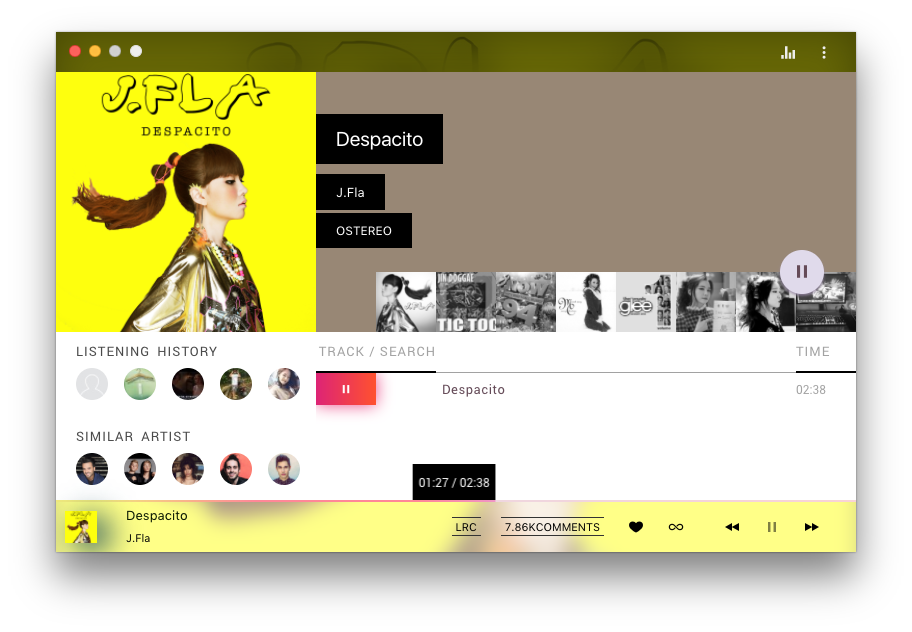
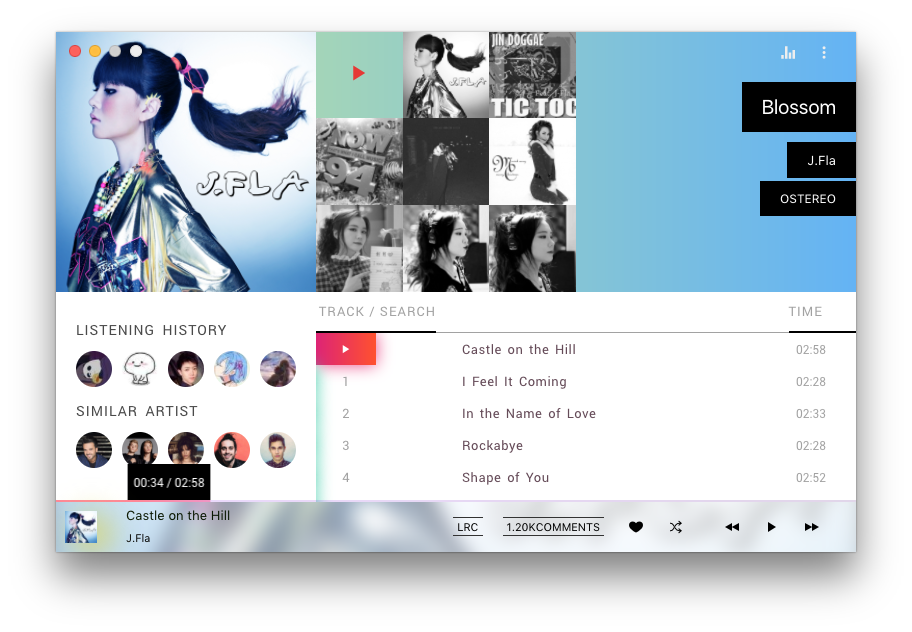
Update player ui

diff --git a/src/js/pages/Player/index.js b/src/js/pages/Player/index.js
@@ -6,8 +6,9 @@ import injectSheet from 'react-jss';
 import clazz from 'classname';
 
 import classes from './classes';
-import Search from './Search';
 import helper from 'utils/helper';
+import colors from 'utils/colors';
+import Search from './Search';
 import Loader from 'ui/Loader';
 import FadeImage from 'ui/FadeImage';
 import ProgressImage from 'ui/ProgressImage';
@@ -243,13 +244,13 @@ class Player extends Component {
 
     render() {
         var { classes, loading, meta, playing, recommend, canifav, searching, showSearch, hideSearch, filter } = this.props;
-        var heroBackgroundColor = helper.pureColor(meta.pallet);
 
         return (
             <div className={classes.container}>
                 <Loader show={loading} />
 
                 <Header
+                    transparent={true}
                     showFav={canifav()}
                 />
 
@@ -257,7 +258,7 @@ class Player extends Component {
                     <div
                         className={classes.hero}
                         style={{
-                            background: heroBackgroundColor,
+                            background: colors.randomGradient()
                         }}>
                         <ProgressImage {...{
                             height: 260,
@@ -265,43 +266,54 @@ class Player extends Component {
                             src: meta.cover,
                         }} />
 
-                        <aside className={classes.info}>
-                            <div className={classes.text}>
-                                <p className={classes.title}>
-                                    <span>
-                                        {meta.name}
-                                    </span>
-                                </p>
+                        <summary className={classes.summary}>
+                            <p className={classes.title}>
+                                <span>
+                                    {meta.name}
+                                </span>
+                            </p>
 
-                                <p className={classes.author}>
-                                    <span>
-                                        {
-                                            meta.author.map((e, index) => {
-                                                return (
-                                                    <Link
-                                                        key={index}
-                                                        to={e.link}>
-                                                        {e.name}
-                                                    </Link>
-                                                );
-                                            })
-                                        }
-                                    </span>
-                                </p>
+                            <p className={classes.author}>
+                                <span>
+                                    {
+                                        meta.author.map((e, index) => {
+                                            return (
+                                                <Link
+                                                    key={index}
+                                                    to={e.link}>
+                                                    {e.name}
+                                                </Link>
+                                            );
+                                        })
+                                    }
+                                </span>
+                            </p>
 
-                                <p
-                                    className={classes.subtitle}
-                                    style={{
-                                        marginTop: 20,
-                                    }}>
-                                    <span>
-                                        {meta.company || `${helper.humanNumber(meta.played)} Played`}
-                                    </span>
-                                </p>
+                            <p
+                                className={classes.subtitle}
+                                style={{
+                                    marginTop: 20,
+                                }}>
+                                <span>
+                                    {meta.company || `${helper.humanNumber(meta.played)} Played`}
+                                </span>
+                            </p>
+                        </summary>
 
+                        <div className={classes.recommend}>
+                            <div
+                                style={{
+                                    position: 'relative',
+                                    display: 'inline-block',
+                                    height: 260 / 3,
+                                    width: 260 / 3,
+                                    marginTop: -2,
+                                }}
+                            >
                                 <div
                                     className={classes.play}
-                                    onClick={() => this.props.play()}>
+                                    onClick={() => this.props.play()}
+                                >
                                     {
                                         (this.props.canitoggle() && playing)
                                             ? <i className="ion-ios-pause" />
@@ -309,24 +321,27 @@ class Player extends Component {
                                     }
                                 </div>
                             </div>
-                        </aside>
 
-                        <div className={classes.recommend}>
                             {
-                                recommend.map((e, index) => {
-                                    return (
-                                        <Link
-                                            className="clearfix"
-                                            key={index}
-                                            to={e.link}>
-                                            <ProgressImage {...{
-                                                height: 60,
-                                                width: 60,
-                                                src: e.cover,
-                                            }} />
-                                        </Link>
-                                    );
-                                })
+                                recommend.map(
+                                    (e, index) => {
+                                        return (
+                                            <Link
+                                                className="clearfix"
+                                                key={index}
+                                                to={e.link}
+                                            >
+                                                <ProgressImage
+                                                    {...{
+                                                        height: 260 / 3,
+                                                        width: 260 / 3,
+                                                        src: e.cover,
+                                                    }}
+                                                />
+                                            </Link>
+                                        );
+                                    }
+                                )
                             }
                         </div>
                     </div>

diff --git a/src/js/pages/Player/classes.js b/src/js/pages/Player/classes.js
@@ -3,7 +3,6 @@ import colors from 'utils/colors';
 
 export default theme => ({
     container: {
-        marginTop: 40,
         background: '#fff',
     },
 
@@ -21,13 +20,11 @@ export default theme => ({
         width: 260,
     },
 
-    info: {
-        flex: 1,
-        marginBottom: 60,
-    },
-
-    text: {
-        display: 'inline-block',
+    summary: {
+        position: 'absolute',
+        right: 0,
+        top: 30,
+        textAlign: 'right',
 
         '& $title span, & $author span, & $subtitle span': {
             padding: '10px 20px',
@@ -42,7 +39,7 @@ export default theme => ({
 
         '& span': {
             display: '-webkit-box',
-            maxWidth: 280,
+            maxWidth: 240,
             lineHeight: '30px',
             whiteSpace: 'normal',
             overflow: 'hidden',
@@ -83,30 +80,44 @@ export default theme => ({
 
     play: {
         position: 'absolute',
-        bottom: 38,
-        right: 32,
+        top: '50%',
+        left: '50%',
         height: 44,
         width: 44,
+        marginTop: -22,
+        marginLeft: -22,
         lineHeight: '44px',
         borderRadius: 44,
-        boxShadow: '0 2px 4px 0 #9687a2',
-        background: '#e0daeb',
         textAlign: 'center',
-        color: '#654b58',
-        fontSize: 20,
-        zIndex: 9,
+        color: 'white',
+        fontSize: 24,
         cursor: 'pointer',
+        transition: '.2s',
+
+        '&:hover': {
+            color: colors.randomColor()
+        },
     },
 
     recommend: {
         position: 'absolute',
-        right: 0,
-        bottom: 0,
-        height: 60,
+        left: 260,
+        top: 0,
+        height: 260,
+        width: 260 / 3 * 3,
+        boxSizing: 'border-box',
+        zIndex: 99,
 
         '& img:first-of-type': {
             filter: 'grayscale(100%)',
             transition: '.3s ease-in-out',
+        },
+
+        '& a': {
+            padding: 0,
+            margin: 0,
+            boxSizing: 'border-box',
+            marginTop: -2,
         },
 
         '& a:hover img:first-of-type': {
@@ -116,29 +127,30 @@ export default theme => ({
 
     body: {
         display: 'flex',
-        height: 'calc(100vh - 260px - 90px)'
+        height: 'calc(100vh - 260px - 50px)'
     },
 
     people: {
         display: 'flex',
-        height: 'calc(100vh - 90px - 260px)',
+        height: 'calc(100% - 48px)',
         width: 240,
         justifyContent: 'space-around',
         flexDirection: 'column',
+        padding: '24px 0',
         paddingLeft: 20,
 
         '& img': {
-            width: 32,
-            height: 32,
-            marginRight: 16,
+            width: 36,
+            height: 36,
+            marginRight: 10,
             marginBottom: 4,
             borderRadius: 32,
         },
 
         '& h3': {
             marginTop: 0,
-            marginBottom: 8,
-            fontSize: 13,
+            marginBottom: 12,
+            fontSize: 14,
             fontFamily: 'Roboto',
             fontWeight: 'lighter',
             color: '#4a4a4a',
@@ -162,7 +174,7 @@ export default theme => ({
             borderBottom: 'thin solid #a2a2a2',
 
             '& span': {
-                width: 60,
+                width: 67.5,
                 borderBottom: '2px solid #000',
                 fontFamily: 'Roboto',
                 textTransform: 'uppercase',
@@ -186,7 +198,7 @@ export default theme => ({
         },
 
         '& ul': {
-            height: 'calc(100vh - 260px - 90px - 40px)',
+            height: 'calc(100vh - 260px - 50px - 40px)',
             padding: 0,
             margin: 0,
             listStyle: 'none',
@@ -253,7 +265,7 @@ export default theme => ({
         textOverflow: 'ellipsis',
         overflow: 'hidden',
         whiteSpace: 'nowrap',
-        maxWidth: 288,
+        maxWidth: 248,
     },
 
     nothing: {
